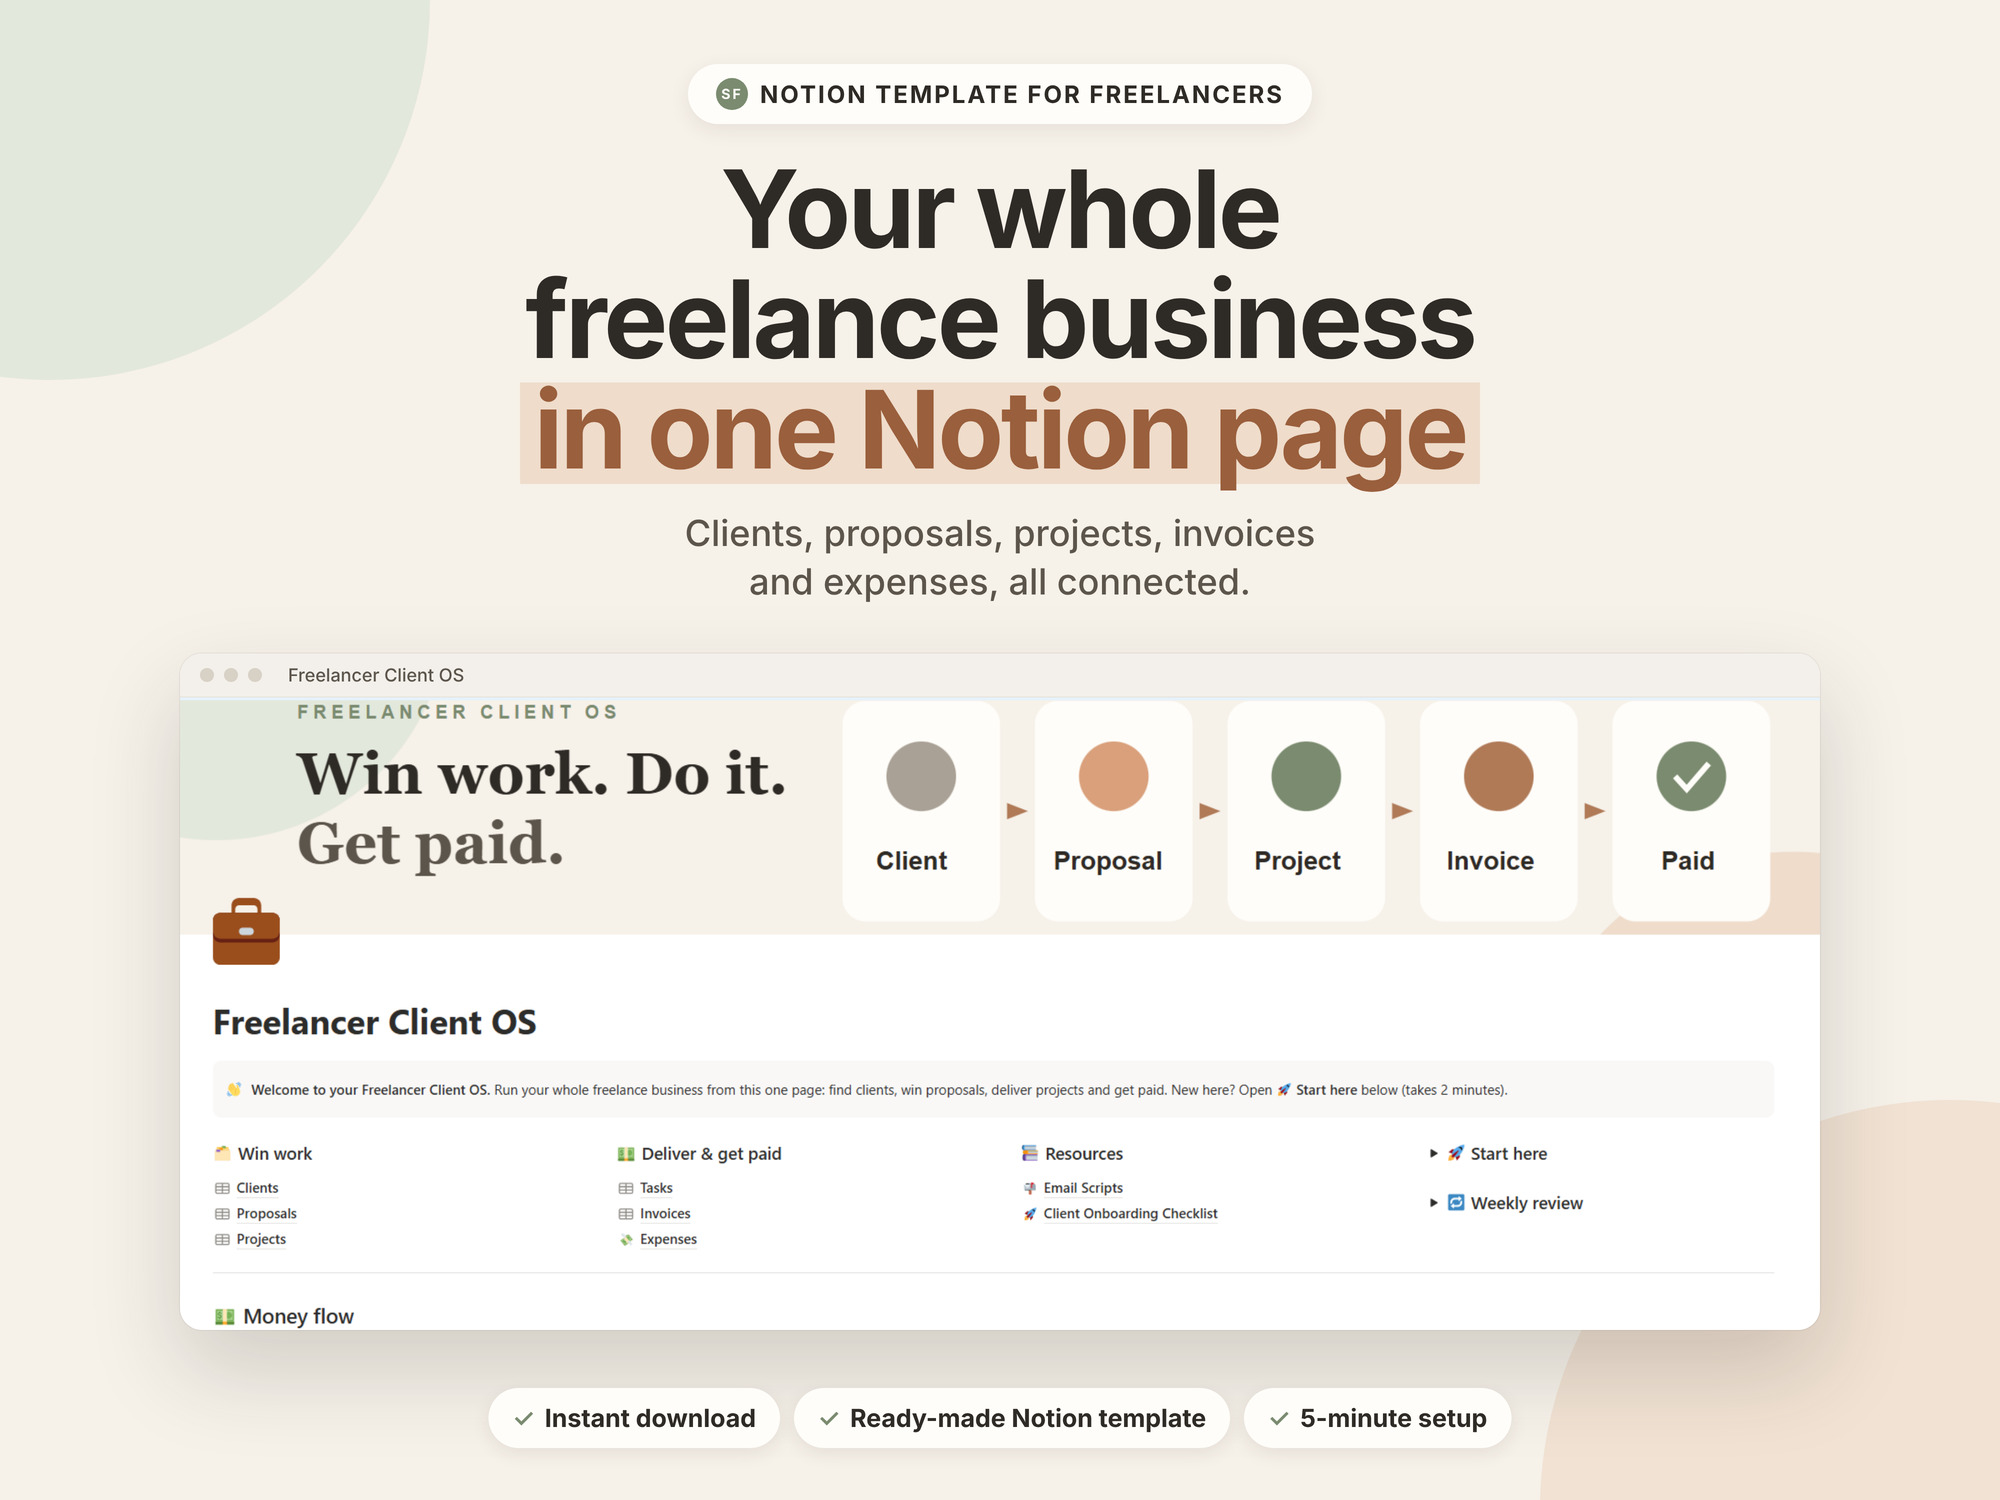
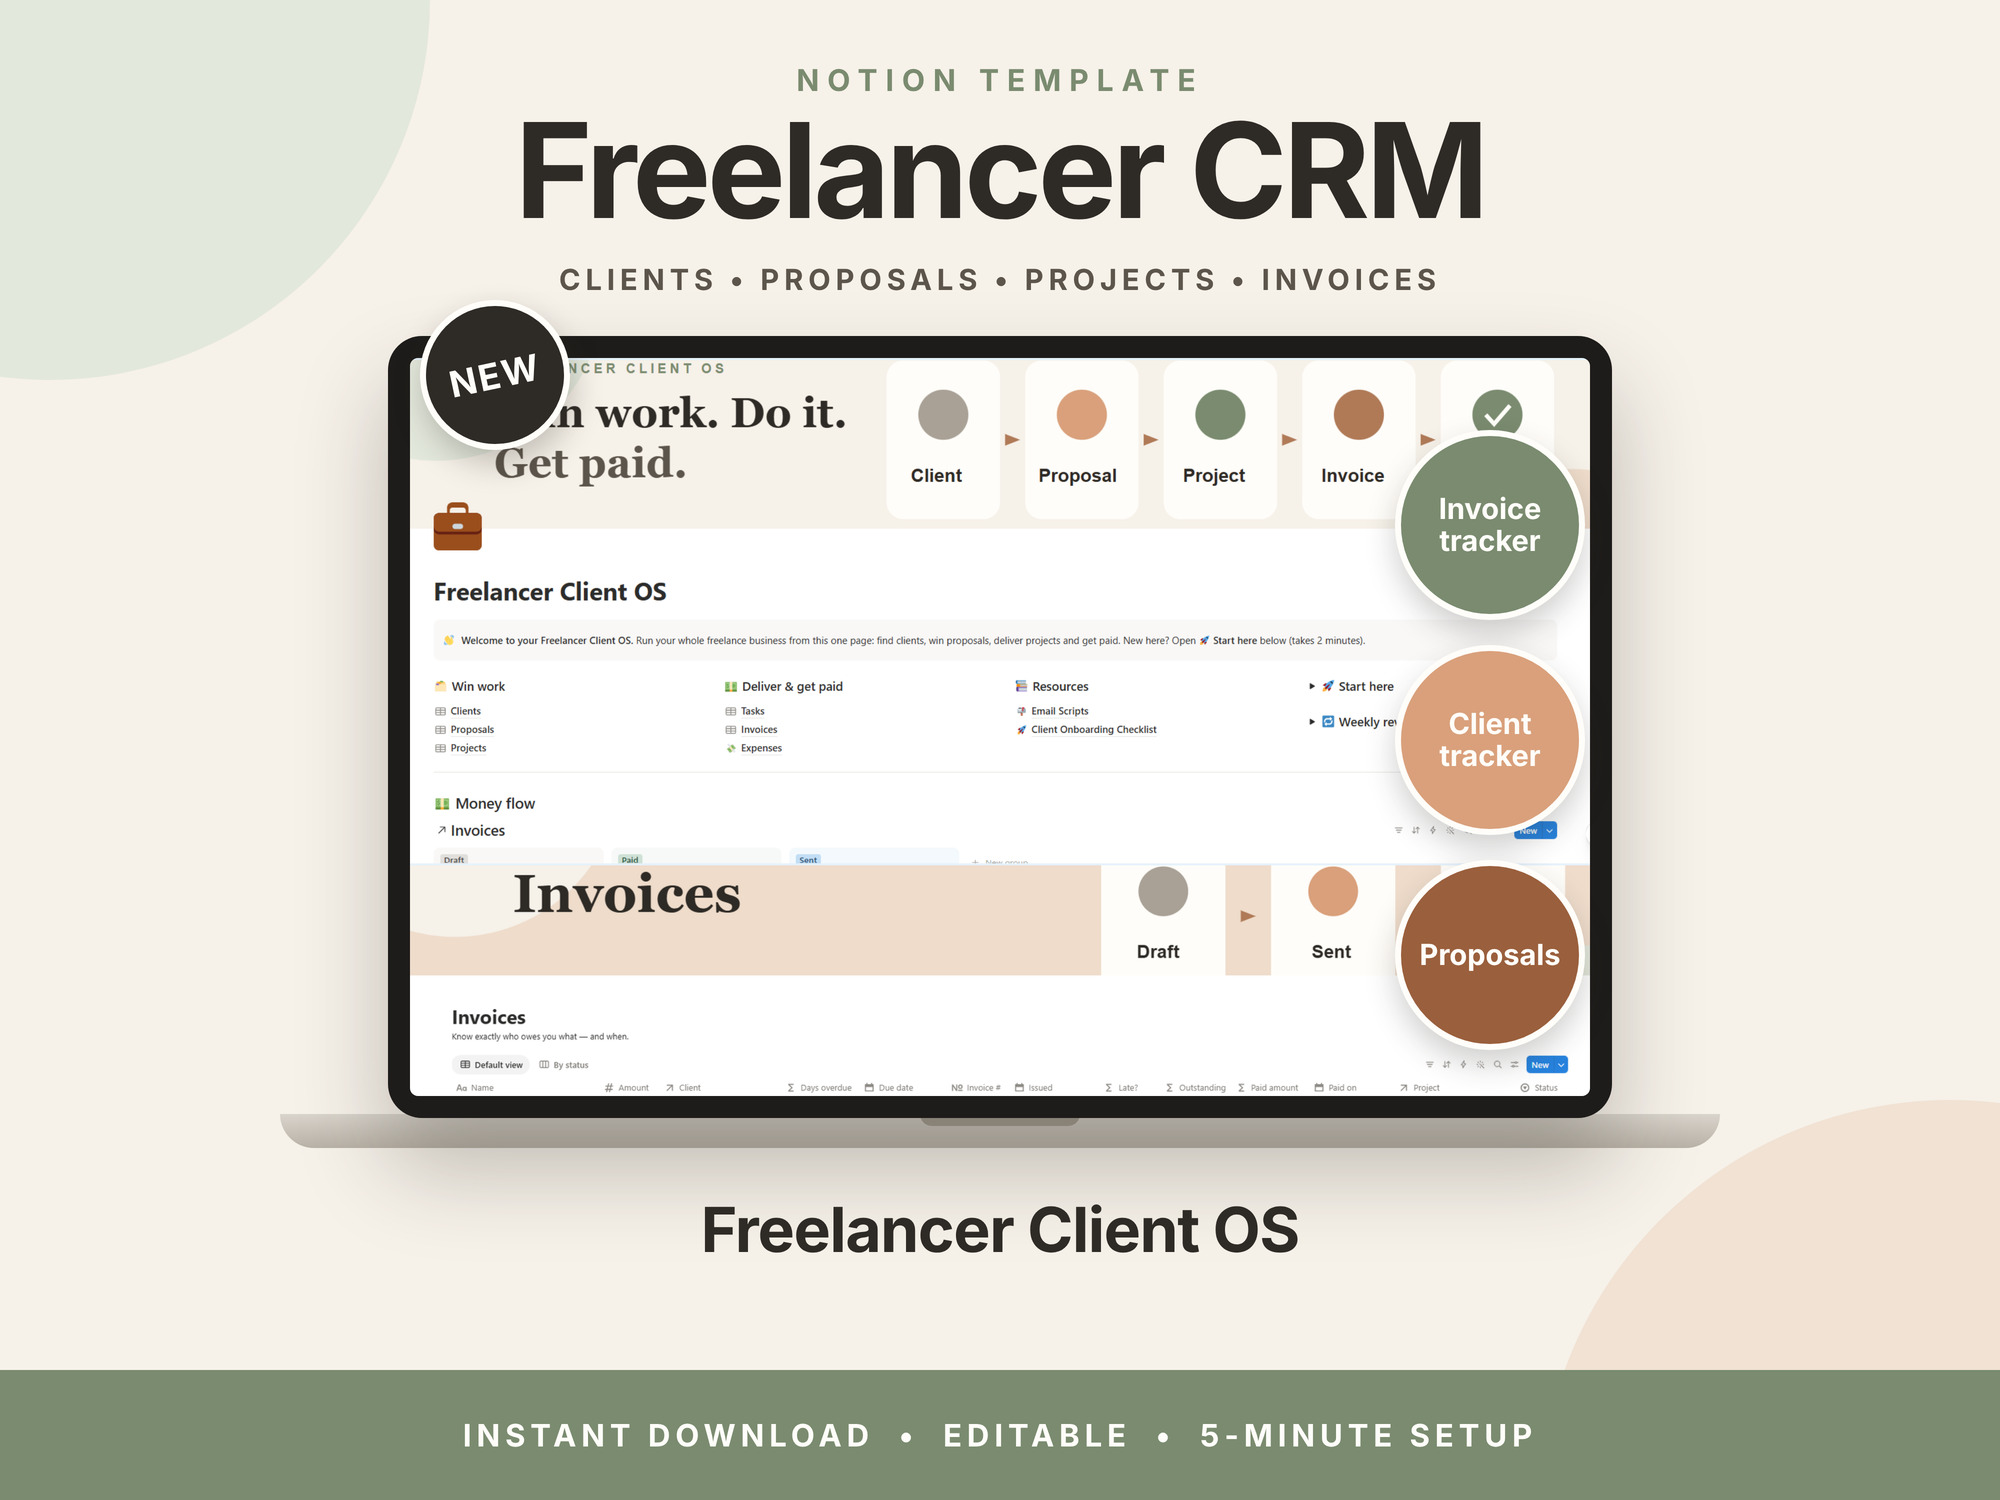
Etsy heroes: thumbnail-first layout (keyword title, laptop mockup, badges, strip)
Claude-Session: https://claude.ai/code/session_01SESvdWYowsCKTnCuHXDcbL

diff --git a/generator/styles/etsy.py b/generator/styles/etsy.py
@@ -77,27 +77,71 @@ def title_html(t):
     return f'{a}<br><em>{b}</em>'
 
 
+def screen_img(hs, tmp, name, sw=1792):
+    """Laptop screen (16:10): the dashboard on top, a second screen stacked under it like a scrolled page."""
+    sh = round(sw / 1.6)
+    out = Image.new('RGB', (sw, sh), 'white')
+    y = 0
+    for part in hs['screen']:
+        im = Image.open(os.path.join(ROOT, part['shot'])).convert('RGB').crop(tuple(part['crop']))
+        im = im.resize((sw, round(im.height * sw / im.width)), Image.LANCZOS)
+        out.paste(im, (0, y))
+        y += im.height
+        if y >= sh:
+            break
+    path = os.path.join(tmp, name + '.png')
+    out.save(path)
+    return path
+
+
 def hero(p, pr, tmp):
-    """Etsy search shows the main photo cropped to a ~4:5 portrait tile (only the middle ~1200px of 2000).
-    So the kicker, title, subtitle and pills stay inside x 420..1580; the screenshot card can run wider."""
+    """Thumbnail-first hero, like the best sellers in Etsy search: big keyword title, laptop mockup,
+    feature badges, product name and a bottom strip. Etsy search crops to a ~4:5 tile (middle ~1200px),
+    so every word stays inside x 420..1580."""
     hs = pr['hero']
-    path, (cw, ch) = crop(hs['shot'], hs['crop'], tmp, 'hero')
-    w = 1640
-    css = ('.col{position:absolute;left:0;right:0;top:64px;bottom:170px;display:flex;flex-direction:column;align-items:center;text-align:center}'
-           '.col h1{margin-top:30px;font-size:108px;line-height:1.02;max-width:1160px}'
-           '.col .sub{margin-top:24px;font-size:36px;max-width:1000px;text-wrap:balance}'
-           f'.hc{{margin-top:48px;width:{w}px;flex:1;min-height:0}}'
-           '.hc img{height:auto!important}'
-           '.pills{position:absolute;left:0;right:0;bottom:52px;justify-content:center;gap:14px}'
-           '.pill{font-size:25px;padding:15px 24px}.foot{display:none}')
-    card = card_html(path, 0, 0, w, round(w * ch / cw), pr['name']).replace('position:absolute', 'position:relative').replace(
-        'style="left:0px;top:0px;', 'style="')
-    body = (f'<div class="col"><div class="kick"><i>SF</i>{pr["kicker"]}</div>'
-            f'<h1>{title_html(hs["title"])}</h1>'
-            f'<div class="sub">{hs["sub"]}</div>'
-            f'<div class="hc" style="position:relative">{card.replace("class=\"card\"", "class=\"card\" ", 1)}</div></div>'
-            + f'<div class="pills">{"".join(f"<div class=pill>{x}</div>" for x in PILLS)}</div>')
-    return page(body, css + '.hc .card{height:100%}')
+    scr = screen_img(hs, tmp, 'hero')
+    sw, bz = 1180, 22
+    shh = round(sw / 1.6)
+    lx = (W - sw - 2 * bz) // 2
+    ly = 336
+    css = (f'.kw{{position:absolute;left:0;right:0;text-align:center}}'
+           f'.k0{{top:62px;font-weight:700;font-size:30px;letter-spacing:8px;color:{SAGE}}}'
+           f'.k1{{top:104px;font-weight:800;font-size:{hs.get("size", 132)}px;letter-spacing:-4px;line-height:1}}'
+           f'.k2{{top:262px;font-weight:700;font-size:29px;letter-spacing:5px;color:{MUT}}}'
+           f'.lap{{position:absolute;left:{lx}px;top:{ly}px;background:#1E1C1A;border-radius:34px;padding:{bz}px;box-shadow:0 50px 90px rgba(46,42,37,.28)}}'
+           f'.lap img{{display:block;width:{sw}px;height:{shh}px;border-radius:8px}}'
+           f'.base{{position:absolute;left:{(W - 1440) // 2}px;top:{ly + shh + 2 * bz - 4}px;width:1440px;height:34px;'
+           f'background:linear-gradient(#D9D4CC,#B9B2A7);border-radius:0 0 40px 40px}}'
+           f'.base:before{{content:"";position:absolute;left:640px;width:160px;height:12px;background:#A69E92;border-radius:0 0 12px 12px}}'
+           f'.phone{{position:absolute;background:#1E1C1A;border-radius:44px;padding:13px;box-shadow:0 40px 80px rgba(46,42,37,.3)}}'
+           f'.phone img{{display:block;width:250px;height:556px;border-radius:32px}}'
+           f'.badge{{position:absolute;width:190px;height:190px;border-radius:50%;display:flex;align-items:center;justify-content:center;'
+           f'text-align:center;font-weight:800;font-size:29px;line-height:1.1;padding:20px;color:{PAP};box-shadow:0 14px 30px rgba(46,42,37,.22);border:6px solid {PAP}}}'
+           f'.new{{position:absolute;width:150px;height:150px;border-radius:50%;background:{INK};color:{PAP};display:flex;align-items:center;'
+           f'justify-content:center;font-weight:800;font-size:36px;letter-spacing:2px;transform:rotate(-12deg);border:6px solid {PAP};box-shadow:0 14px 30px rgba(46,42,37,.25)}}'
+           f'.name{{position:absolute;left:0;right:0;top:1192px;text-align:center;font-weight:800;font-size:62px;letter-spacing:-1px}}'
+           f'.strip{{position:absolute;left:0;right:0;bottom:0;height:130px;background:{SAGE};color:{PAP};display:flex;align-items:center;'
+           f'justify-content:center;font-weight:700;font-size:31px;letter-spacing:5px}}.foot{{display:none}}')
+    colors = [SAGE, ACC, '#9A5F3C']
+    side = hs.get('badges_side', 'right')
+    bx = 1395 if side == 'right' else 415
+    badges = ''.join(f'<div class="badge" style="left:{bx}px;top:{430 + i * 215}px;background:{colors[i % 3]}">{b}</div>'
+                     for i, b in enumerate(hs['badges']))
+    phone = ''
+    if hs.get('phone'):
+        phone = (f'<div class="phone" style="left:1310px;top:560px">'
+                 f'<img src="file://{os.path.join(ROOT, hs["phone"])}"></div>')
+    new_x = 1430 if side == 'left' else 420
+    body = (f'<div class="kw k0">NOTION TEMPLATE</div>'
+            f'<div class="kw k1">{hs["keyword"]}</div>'
+            f'<div class="kw k2">{hs["features"]}</div>'
+            f'<div class="base"></div><div class="lap"><img src="file://{scr}"></div>'
+            + phone + badges
+            + (f'<div class="new" style="left:{new_x}px;top:300px">NEW</div>' if not hs.get('phone') or side == 'right' else
+               f'<div class="new" style="left:430px;top:1020px">NEW</div>')
+            + f'<div class="name">{pr["name"]}</div>'
+            f'<div class="strip">INSTANT DOWNLOAD &nbsp;•&nbsp; EDITABLE &nbsp;•&nbsp; 5-MINUTE SETUP</div>')
+    return page(body, css)
 
 
 def feature(p, pr, f, v2, tmp, n):
